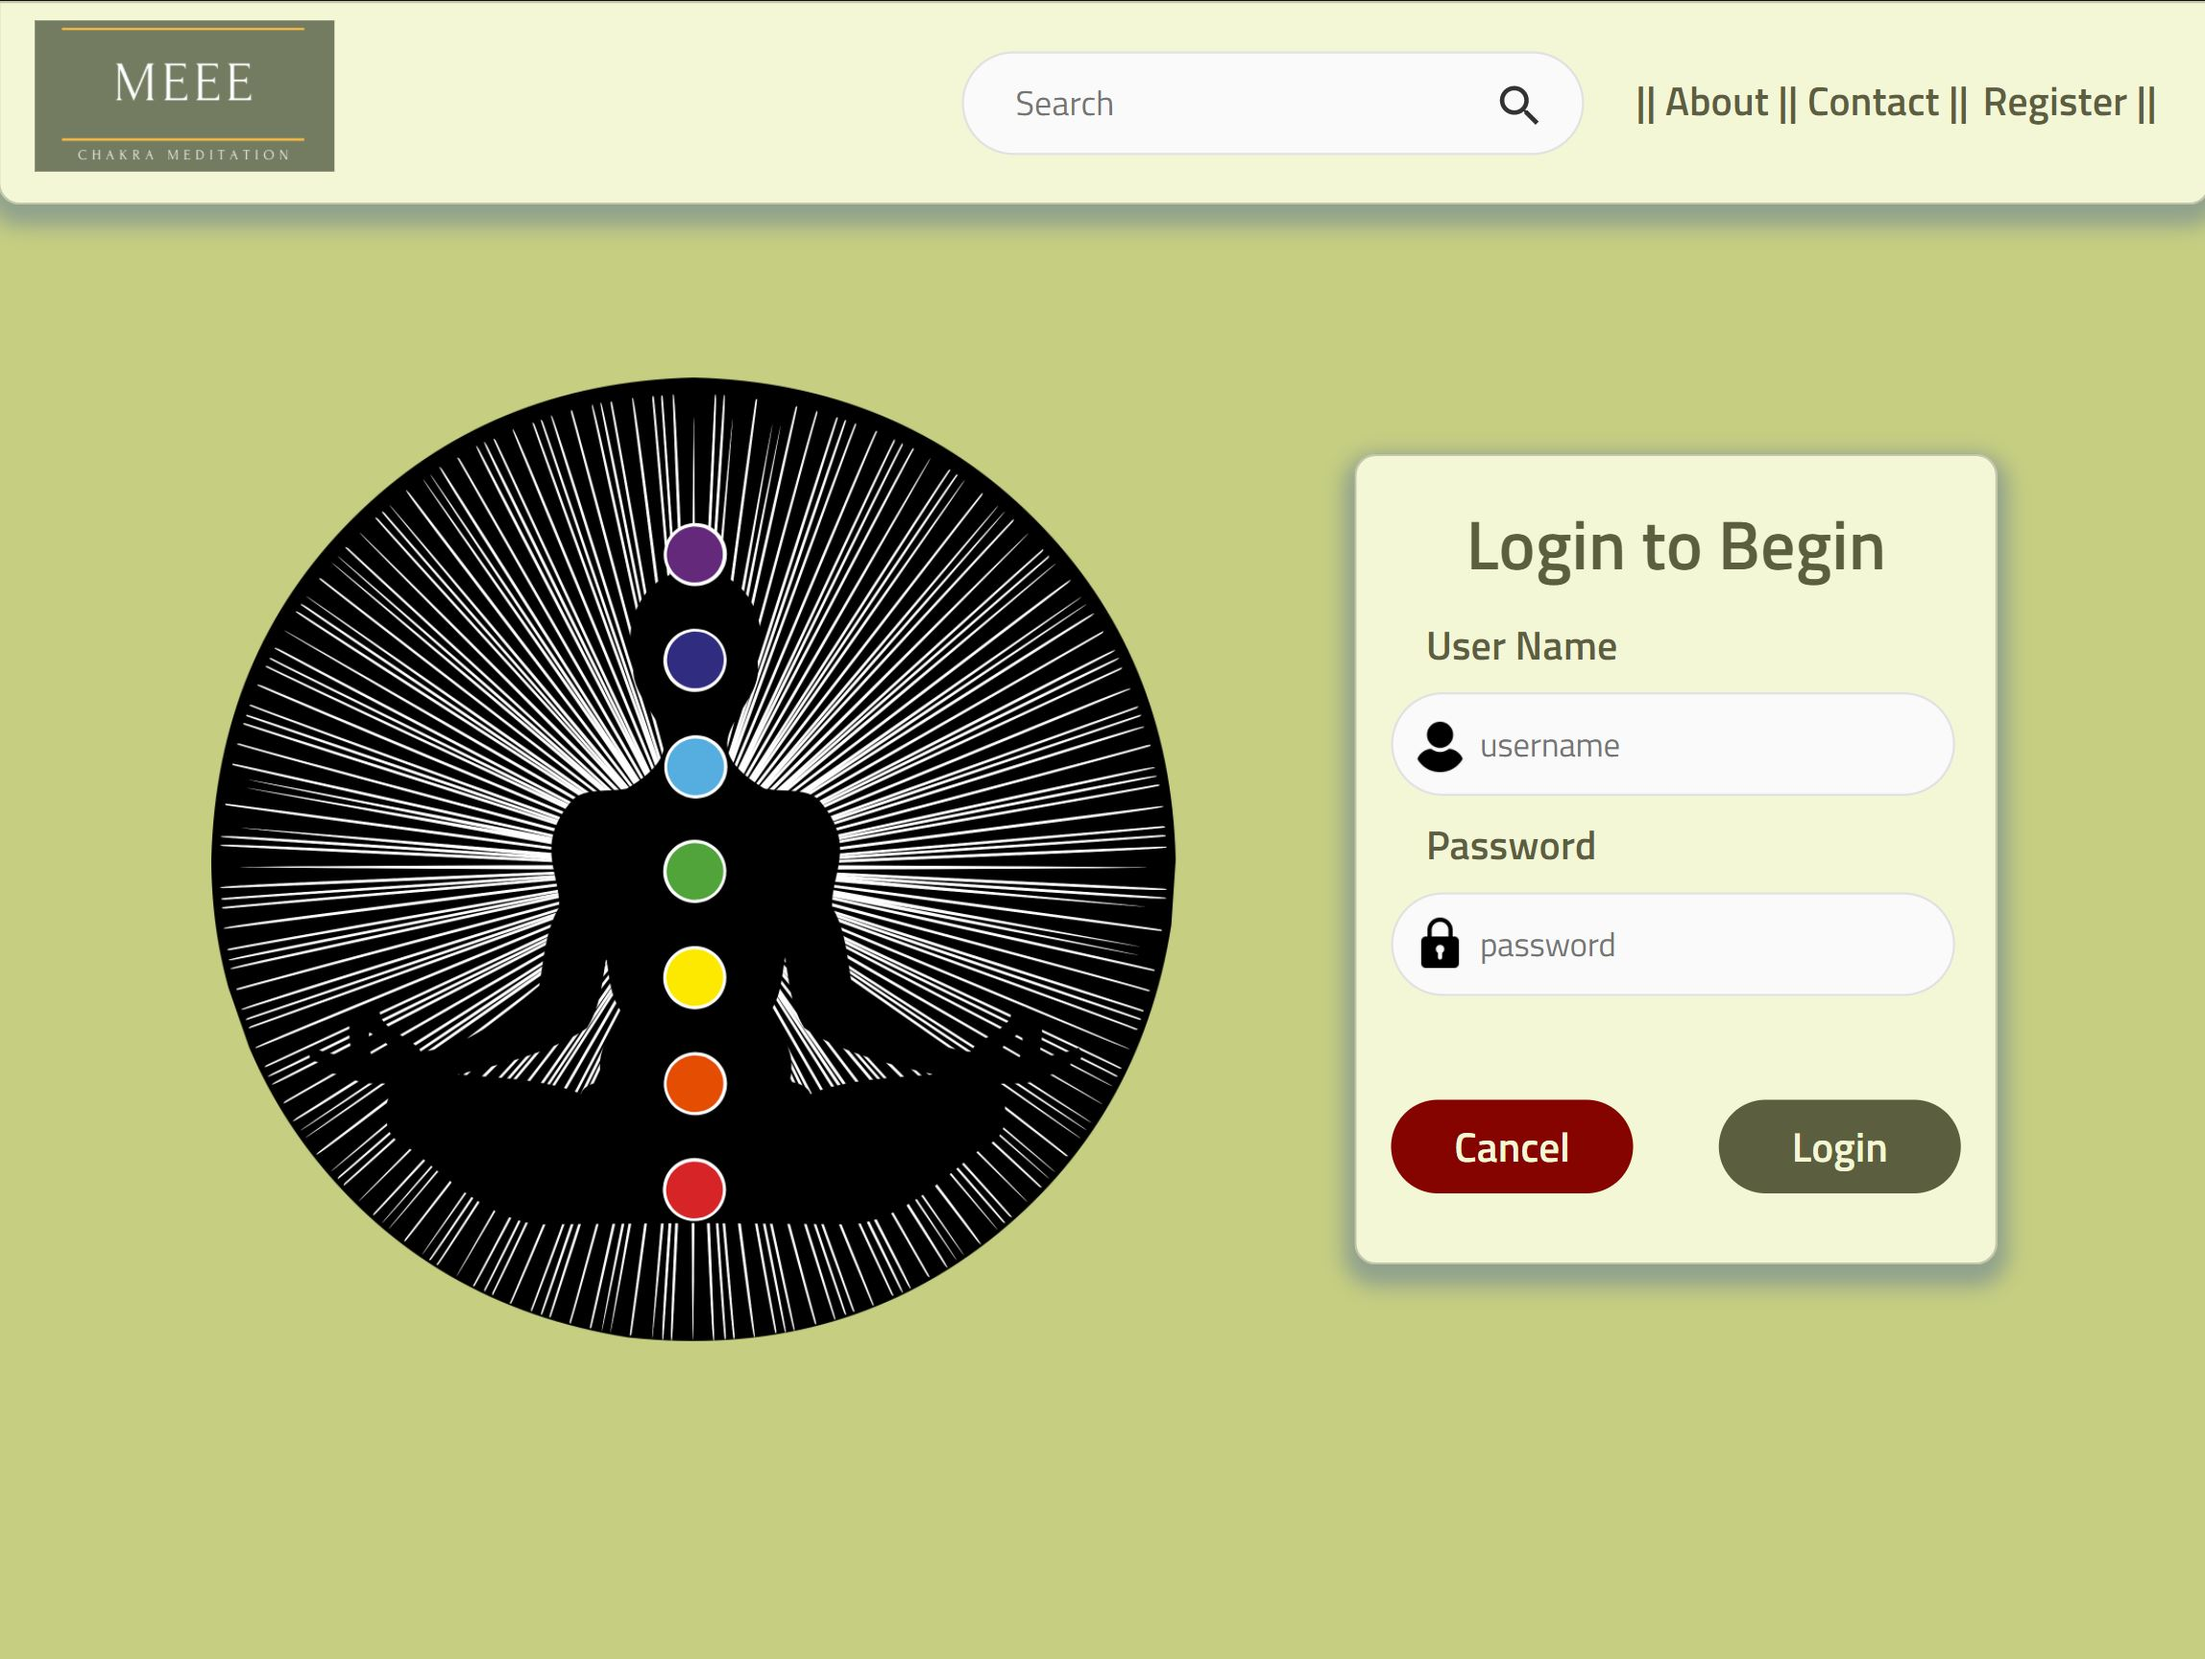
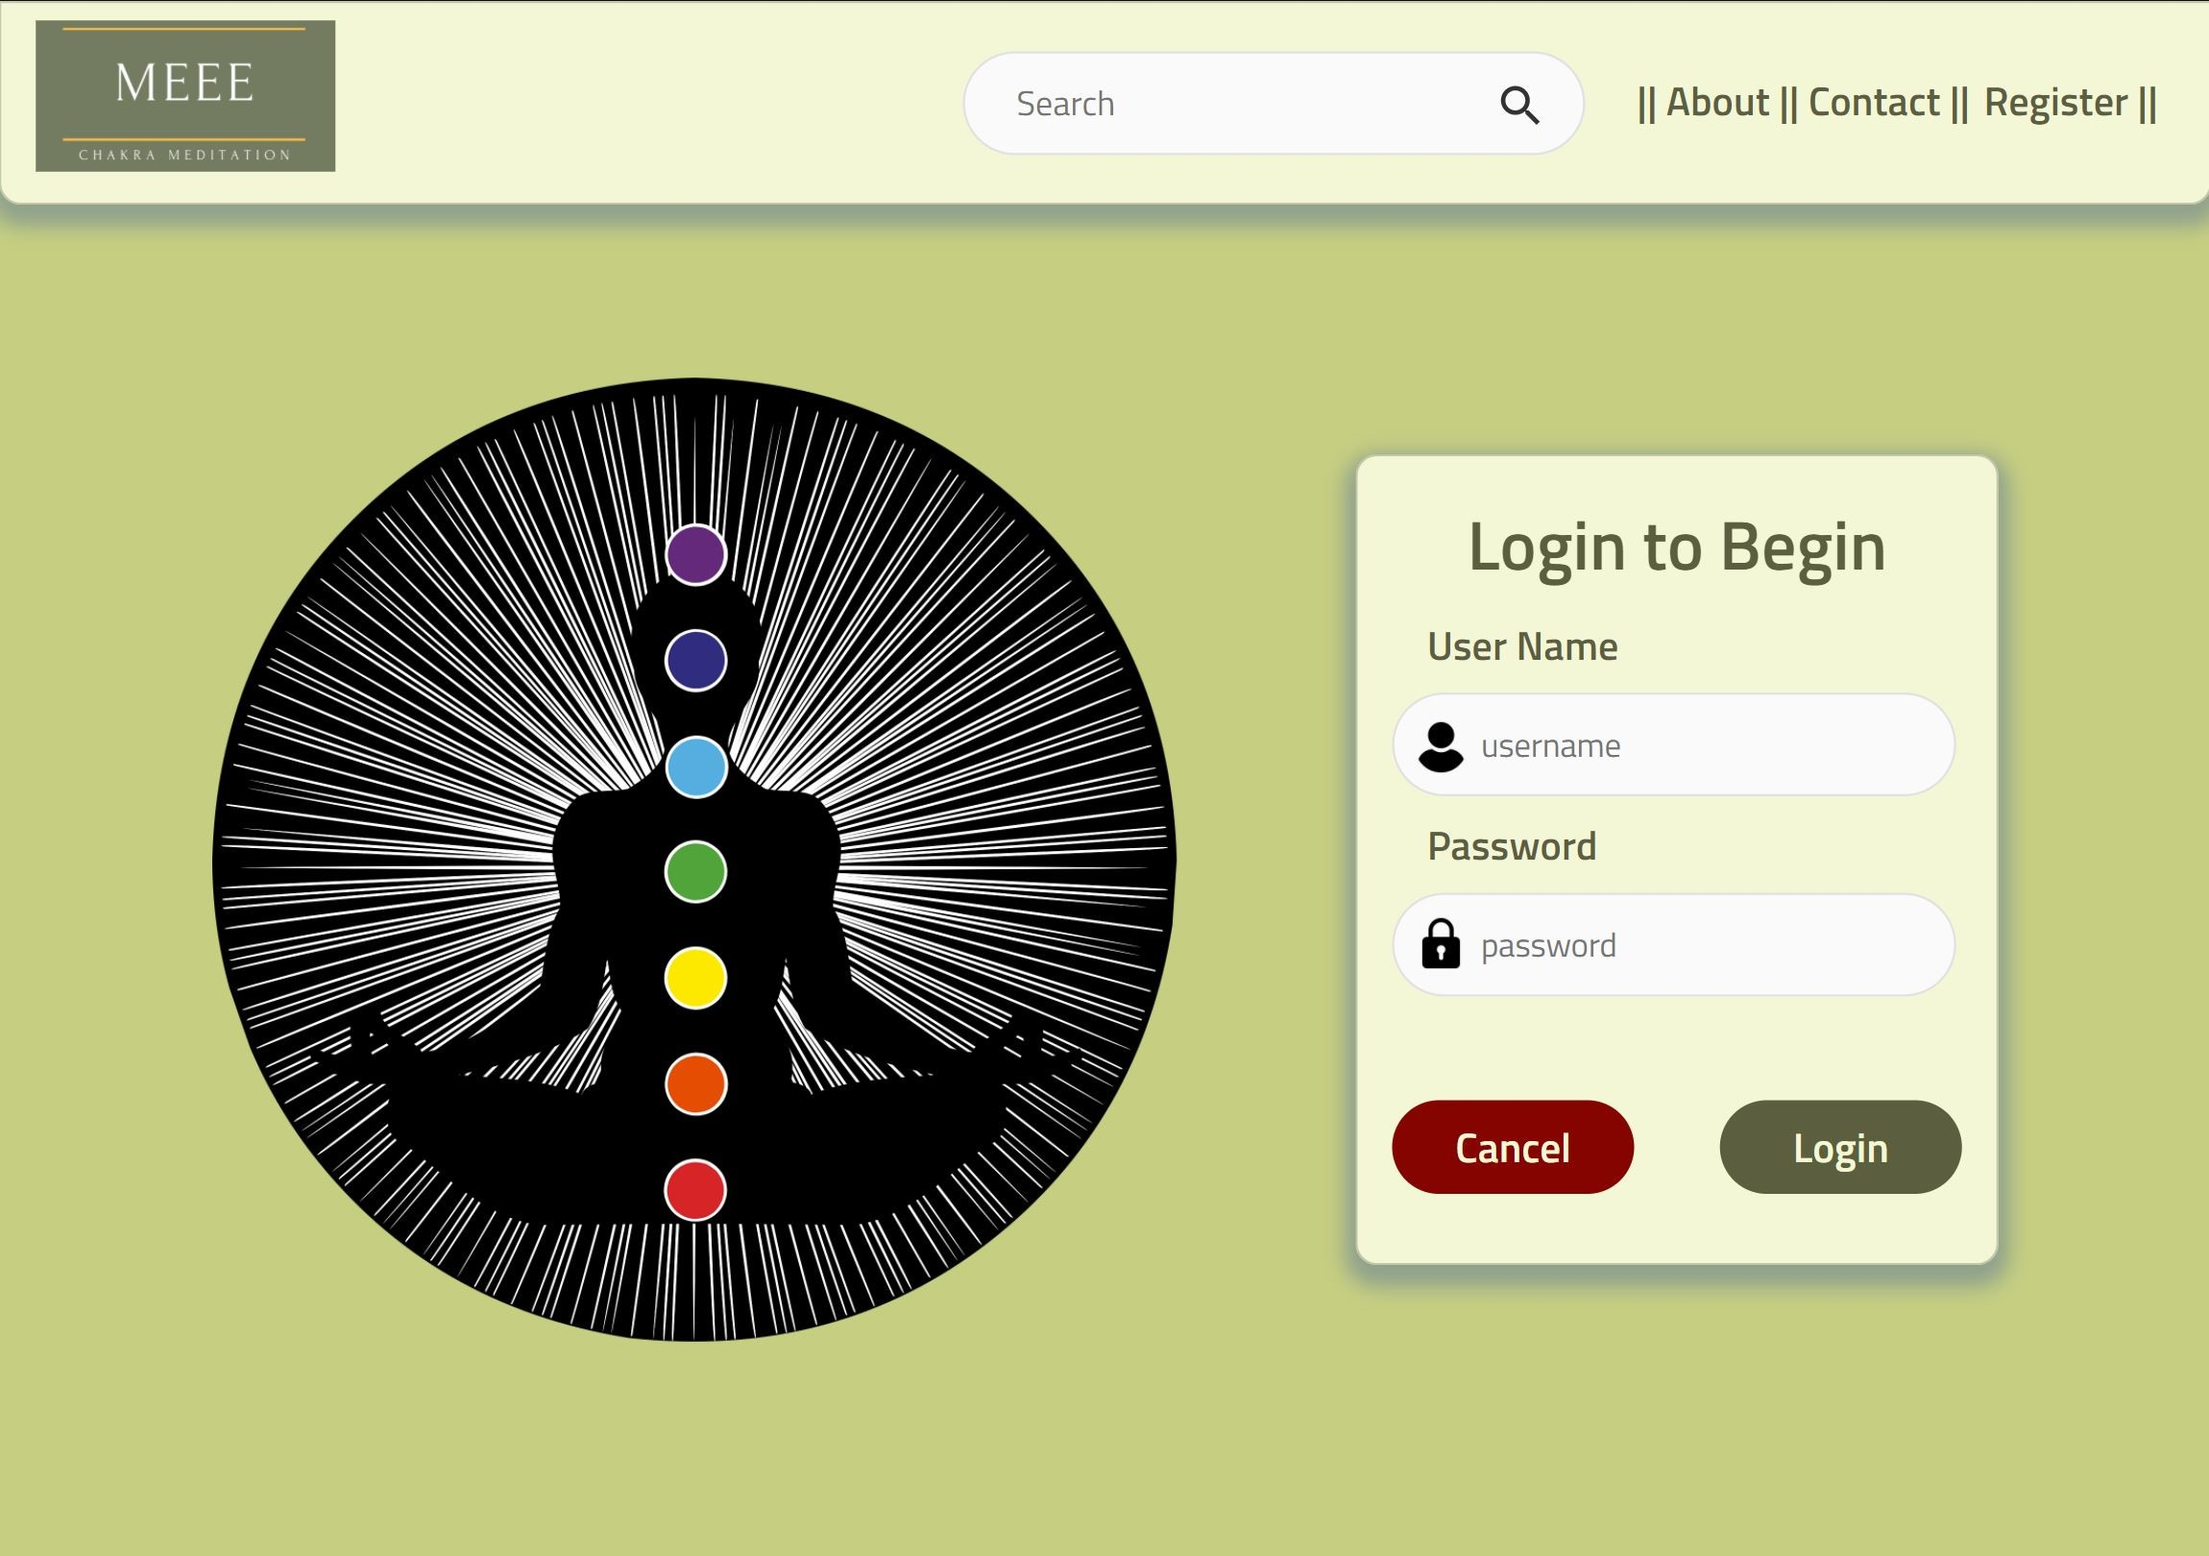
Added link for project MEEE

diff --git a/index.html b/index.html
@@ -89,28 +89,29 @@
 			<article id="portfolio" class="wrapper style3">
 				<div class="container">
 					<header>
-						<h2>Here’s a few projects that I made recently.</h2>
+						<h2>Here’s a few projects that I've made recently.</h2>
 						<p></p>
 					</header>
 					<div class="row">
 						<div class="col-4 col-6-medium col-12-small">
 							<article class="box style2">
-								<a href="https://gifted-kirch-c8c629.netlify.app" class="image featured"><img src="images/Bandsite.JPG" alt="" /></a>
+								<a href="https://gifted-kirch-c8c629.netlify.app" class="image featured"><img src="images/Bandsite.JPG" alt="" /></a><br>
 								<h3><a href="https://gifted-kirch-c8c629.netlify.app">Bandsite</a></h3>
 								<p>A fully-responsive website designed using HTML and CSS. Deployed on Netlify</p>
 							</article>
 						</div>
 						<div class="col-4 col-6-medium col-12-small">
 							<article class="box style2">
-								<a href="https://hardcore-goldwasser-07683e.netlify.app" class="image featured"><img src="images/BrainFlix.JPG" alt="" /></a>
+								<a href="https://hardcore-goldwasser-07683e.netlify.app" class="image featured"><img src="images/BrainFlix.JPG" alt="" /></a><br>
 								<h3><a href="https://hardcore-goldwasser-07683e.netlify.app">BrainFlix</a></h3>
 								<p>A website inspired by YouTube built using reactjs, HTML and CSS. Deployed on Netlify</p>
 							</article>
 						</div>
 						<div class="col-4 col-6-medium col-12-small">
 							<article class="box style2">
-								<a href="#" class="image featured"><img src="https://i.imgur.com/cyptf13.jpg" alt="" height="" /></a>
-								<h3><a href="#">MEEE</a></h3>
+								<a href="#" class="image featured"><img src="images/Meee.JPG" alt="" height="" /></a>
+								<!-- <a href="#" class="image featured"><img src="https://i.imgur.com/cyptf13.jpg" alt="" height="" /></a> -->
+								<h3><a href="https://github.com/DeepaAnjanamurthy/MEEE">MEEE</a></h3>
 								<p>Meditation app built using reactjs, nodejs and express. Not deployed</p>
 							</article>
 						</div>
